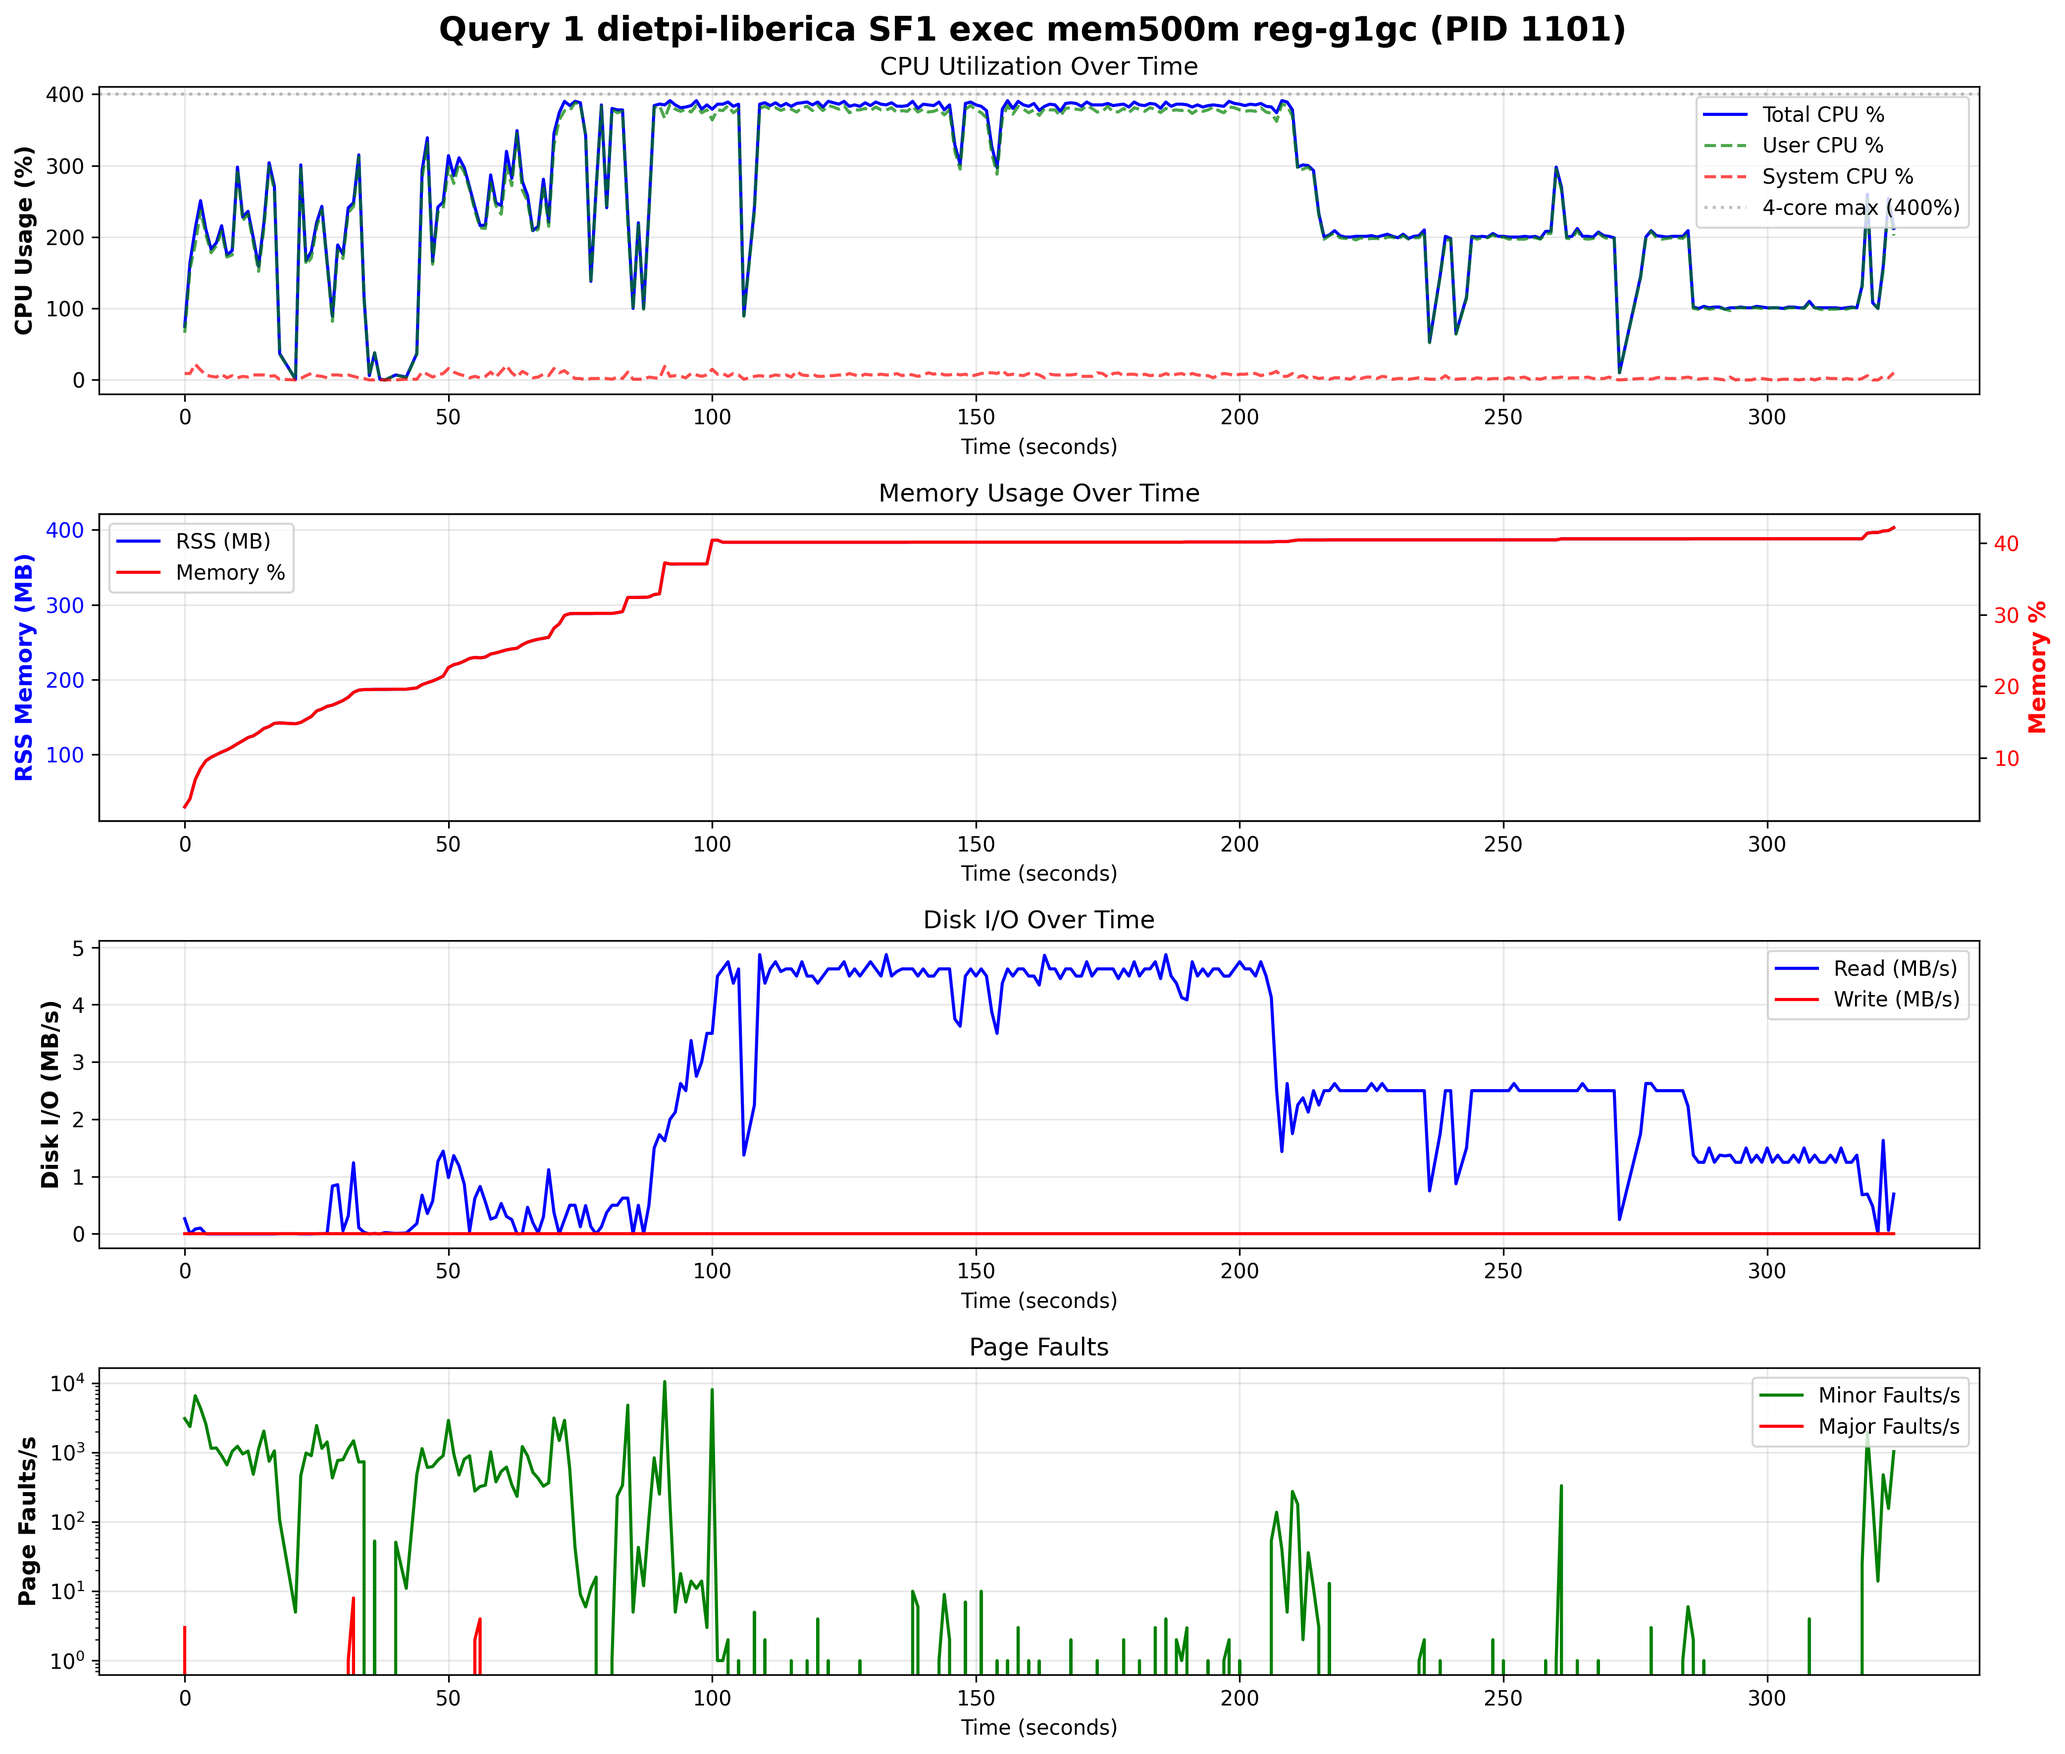
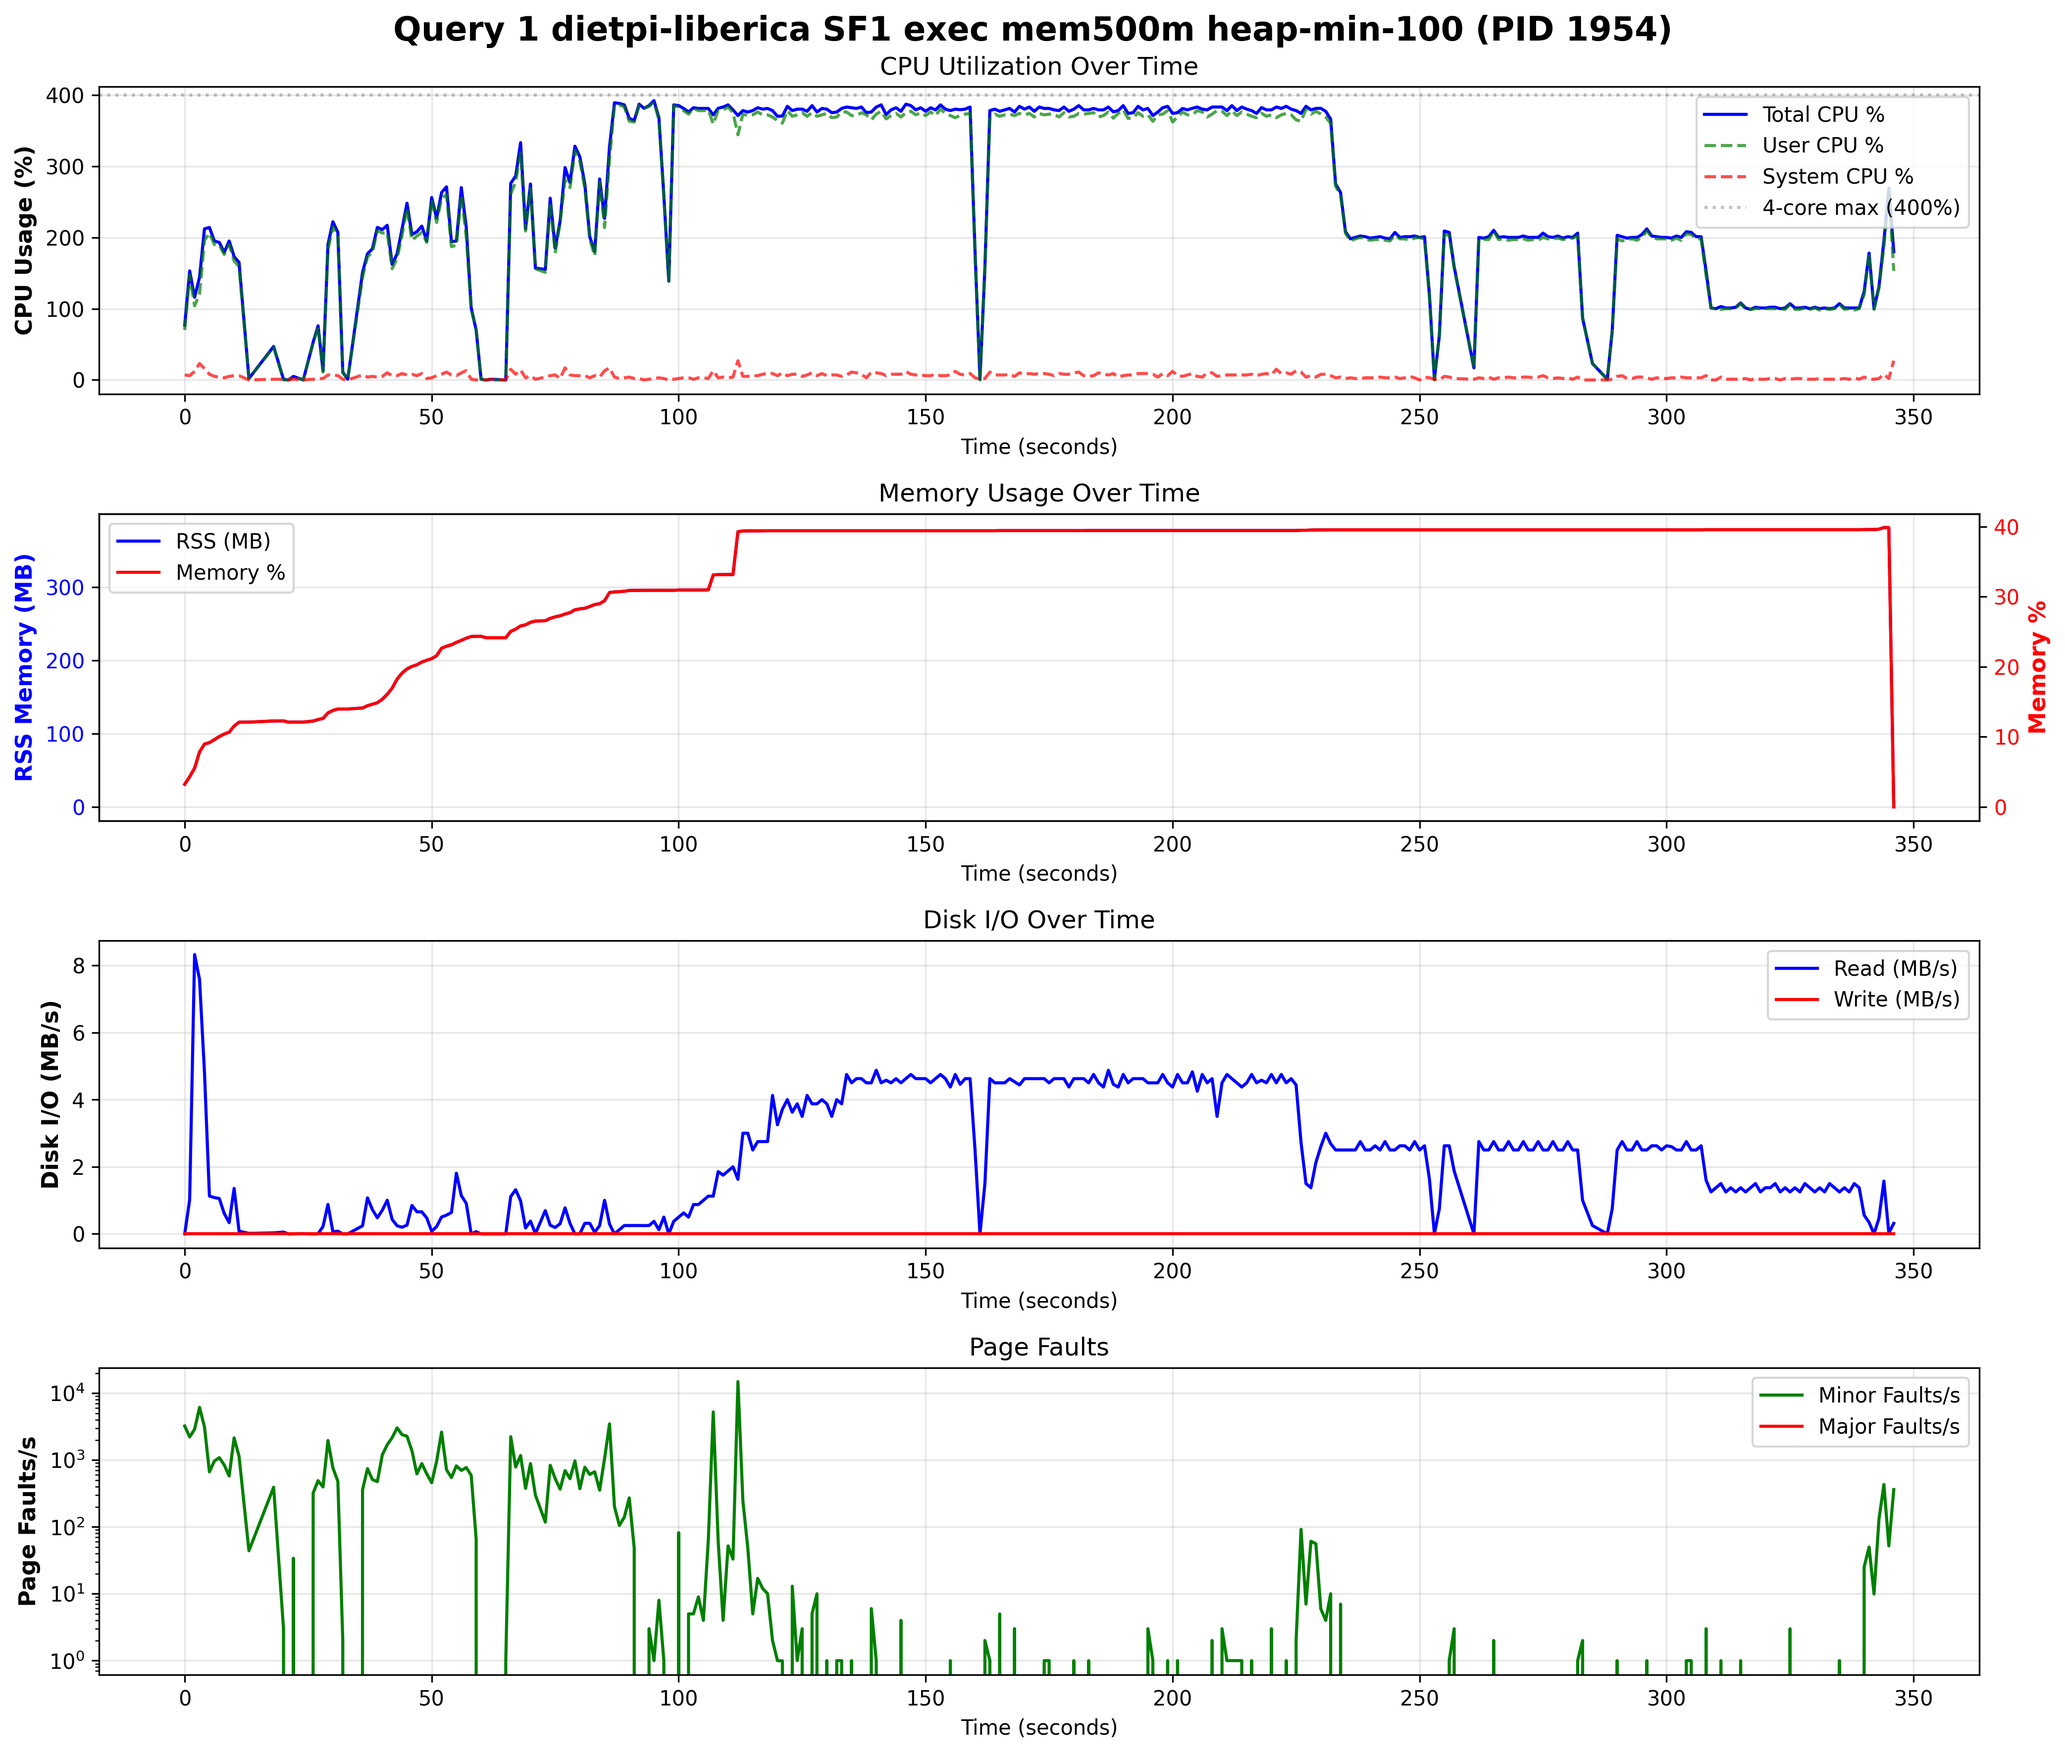
[UPDATE] Add another min heap

diff --git a/tpch/config.py b/tpch/config.py
@@ -105,6 +105,17 @@ JVM_CONFIGS = {
     # ========================================
     # Initial heap size
     # ========================================
+    "heap-min-100": {
+        "name": "heap-min-100",
+        "options": [
+            "-XX:+UseG1GC",
+            "-Xms100m",  # Start at 256MB
+            # Max is 600MB (set by spark.executor.memory)
+        ],
+        "description": "Heap grows from 256m to 600m",
+        "expected": "Lower initial memory, GC overhead during growth"
+    },
+    
     "heap-min-256": {
         "name": "heap-min-256",
         "options": [
@@ -285,7 +296,7 @@ JVM_CONFIGS = {
 # ACTIVE CONFIGURATION
 # ============================================
 # Change this variable to switch between test configurations
-ACTIVE_CONFIG = "xmx-400"
+ACTIVE_CONFIG = "heap-min-100"
 
 # For automated testing, you can override this programmatically
 
